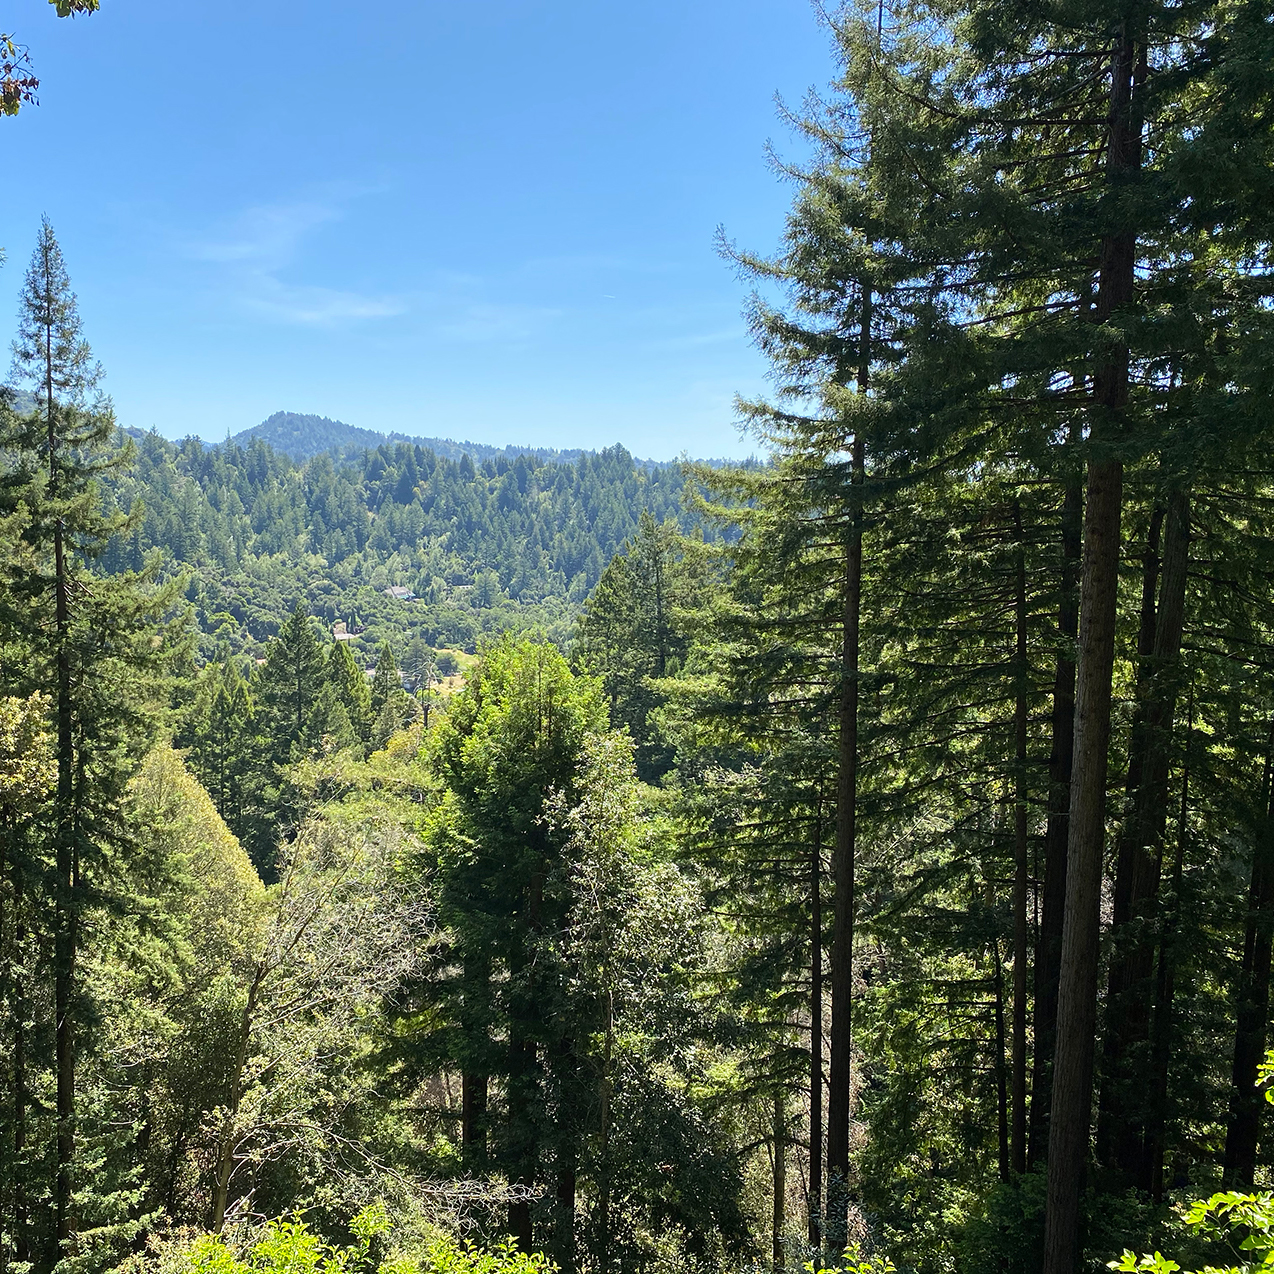
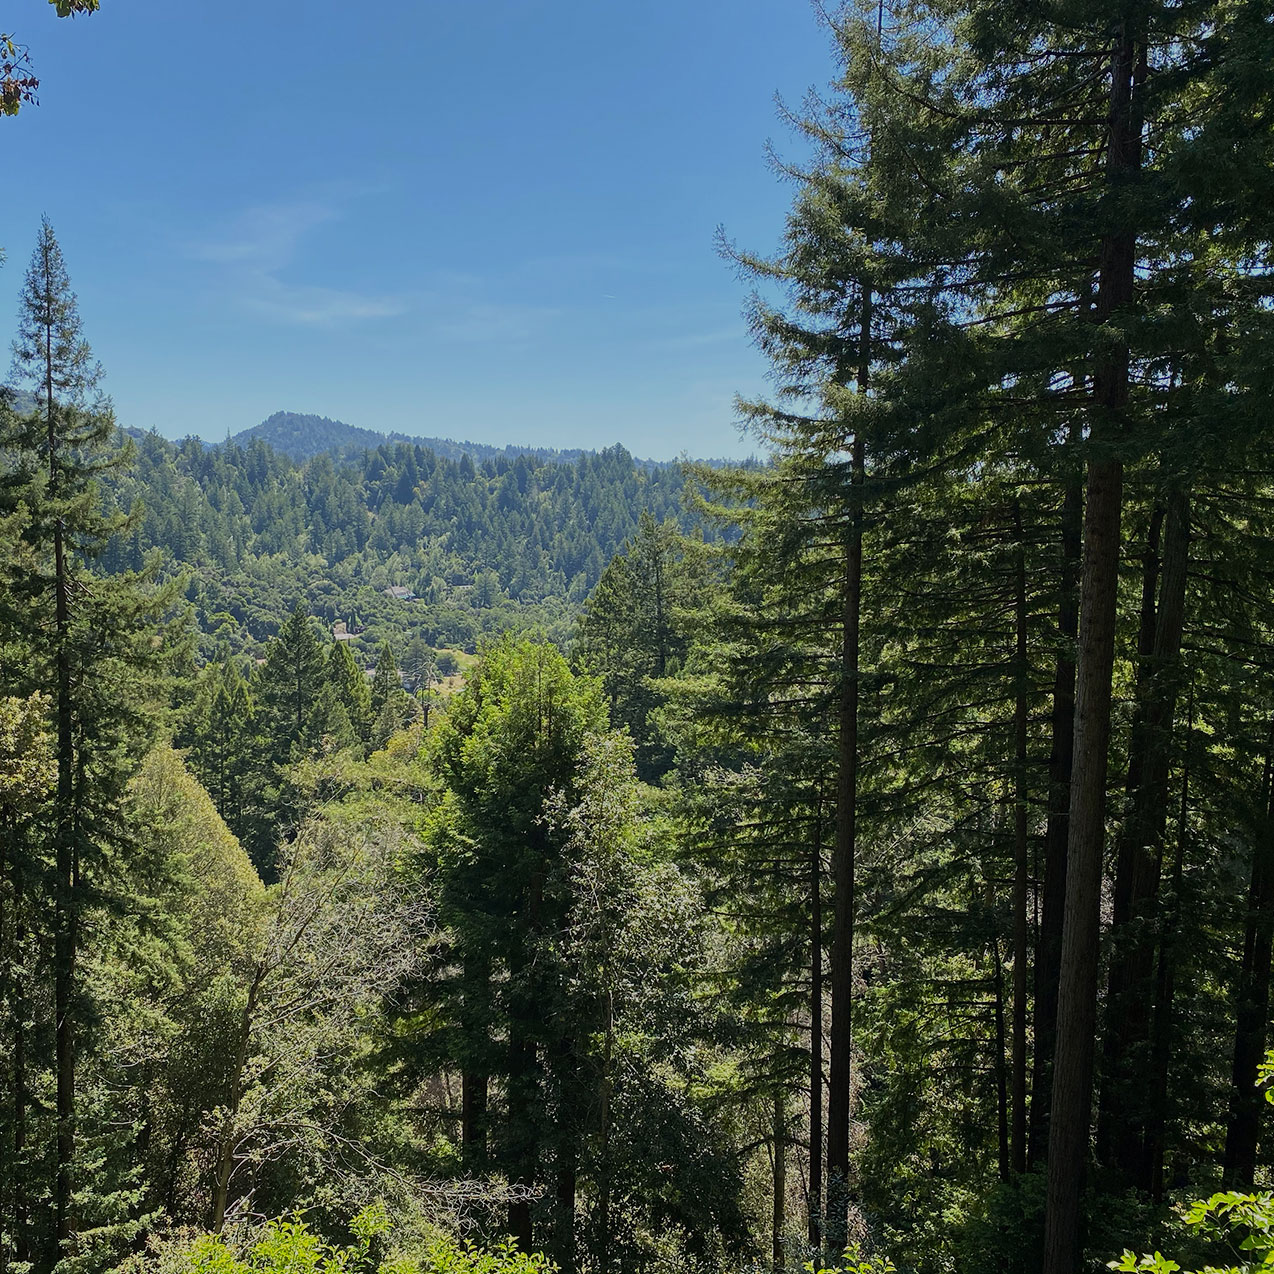
updated background image, readme

diff --git a/src/assets/scss/main.scss b/src/assets/scss/main.scss
@@ -999,12 +999,12 @@ input[type='button'],
     margin: (_size(element-margin) * 0.5) 0 0 0;
 
     a {
-      color: _palette(accent2, fg-light);
+      color: _palette(accent2, fg);
     }
   }
 
   .copyright {
-    color: _palette(accent2, fg-light);
+    color: _palette(accent2, fg);
     font-size: 0.8em;
     list-style: none;
     margin: (_size(element-margin) * 0.5) 0 0 0;

diff --git a/src/assets/scss/libs/_vars.scss b/src/assets/scss/libs/_vars.scss
@@ -52,7 +52,7 @@ $palette: (
   ),
   accent2: (
     bg: #1f1815,
-    fg: rgba(255, 255, 255, 0.5),
+    fg: rgba(255, 255, 255, 0.7),
     fg-bold: #ffffff,
     fg-light: rgba(255, 255, 255, 0.4),
     border: rgba(255, 255, 255, 0.25),

diff --git a/README.md b/README.md
@@ -1,18 +1,41 @@
-# gatsby-starter-strata
+# Badger3000
 
-**This is a starter for Gatsby.js V2.**
+**This is the code base for my personal web site**
 
-**The older V1 version of this starter can be found on the v1 branch**
-
-Gatsby starter based on the Strata site template, designed by [HTML5 UP](https://html5up.net/strata). Check out https://codebushi.com/gatsby-starters-and-themes/ for more Gatsby starters and templates.
+Based on [GatsbyJS](https://www.gatsbyjs.org/) and [Gatsby Strata Starter](https://www.gatsbyjs.org/starters/codebushi/gatsby-starter-strata/)
 
 ## Preview
 
-http://gatsby-strata.surge.sh/
+https://badger3000.com
 
 ## Installation
 
-Install this starter (assuming Gatsby is installed) by running from your CLI:
-`gatsby new gatsby-starter-strata https://github.com/codebushi/gatsby-starter-strata`
+Gatsby CLI
 
-Run `gatsby develop` in the terminal to start.
+```bash
+npm install -g gatsby-cli
+```
+
+clone the repo, navigate into the dirctory and run the following command:
+
+```bash
+npm install
+```
+
+Run development enviroment:
+
+```bash
+gatsby develop
+```
+
+Run production build:
+
+```bash
+gatsby build
+```
+
+Run production locally:
+
+```bash
+gatsby serve
+```
